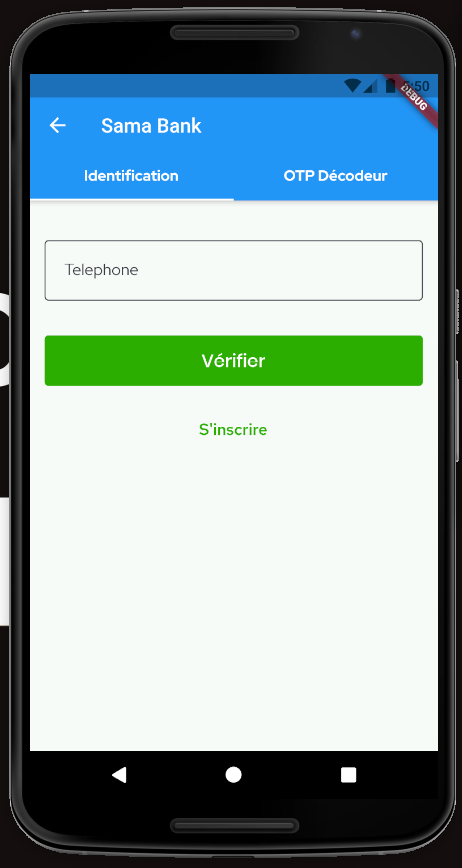
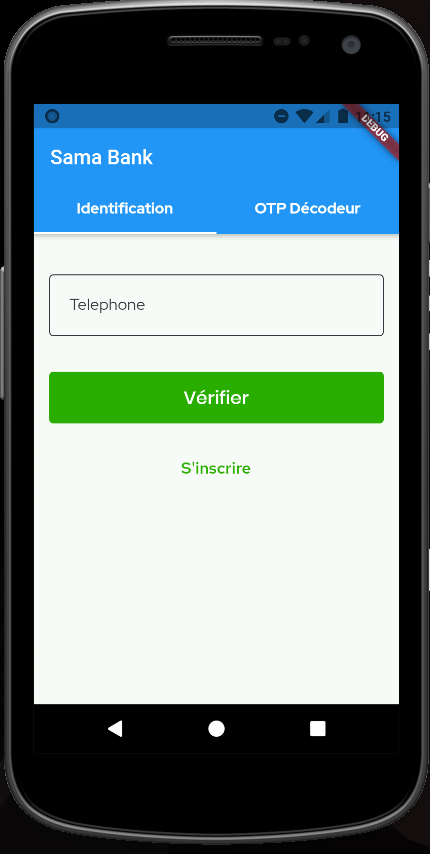
Update README.md file and remove back button in mobile homepage

diff --git a/sama_bank/lib/views/login.dart b/sama_bank/lib/views/login.dart
@@ -13,6 +13,7 @@ class LoginPage extends StatelessWidget {
           length: 2,
           child: Scaffold(
               appBar: AppBar(
+                automaticallyImplyLeading: false,
                 bottom: TabBar(
                   tabs: [
                     Tab(

diff --git a/README.md b/README.md
@@ -6,9 +6,9 @@ Ce dépôt contient le code source du projet du module de compléments cryptogra
 
 Le projet est constitué des composants suivants:
 
-- [SamaBank App : Application mobile](https://github.com/PapiHack)
-- [Bank API : Backend en Spring Boot](https://github.com/PapiHack)
-- [SMS Sender Service : Service d'envoi de SMS](https://github.com/PapiHack)
+- [SamaBank App : Application mobile](https://github.com/PapiHack/projet-complements-crypto/tree/master/sama_bank)
+- [Bank API : Backend en Spring Boot](https://github.com/PapiHack/projet-complements-crypto/tree/master/bank-api)
+- [SMS Sender Service : Service d'envoi de SMS](https://github.com/PapiHack/projet-complements-crypto/tree/master/sms-api)
 
 ## Stack Technlogique
 
